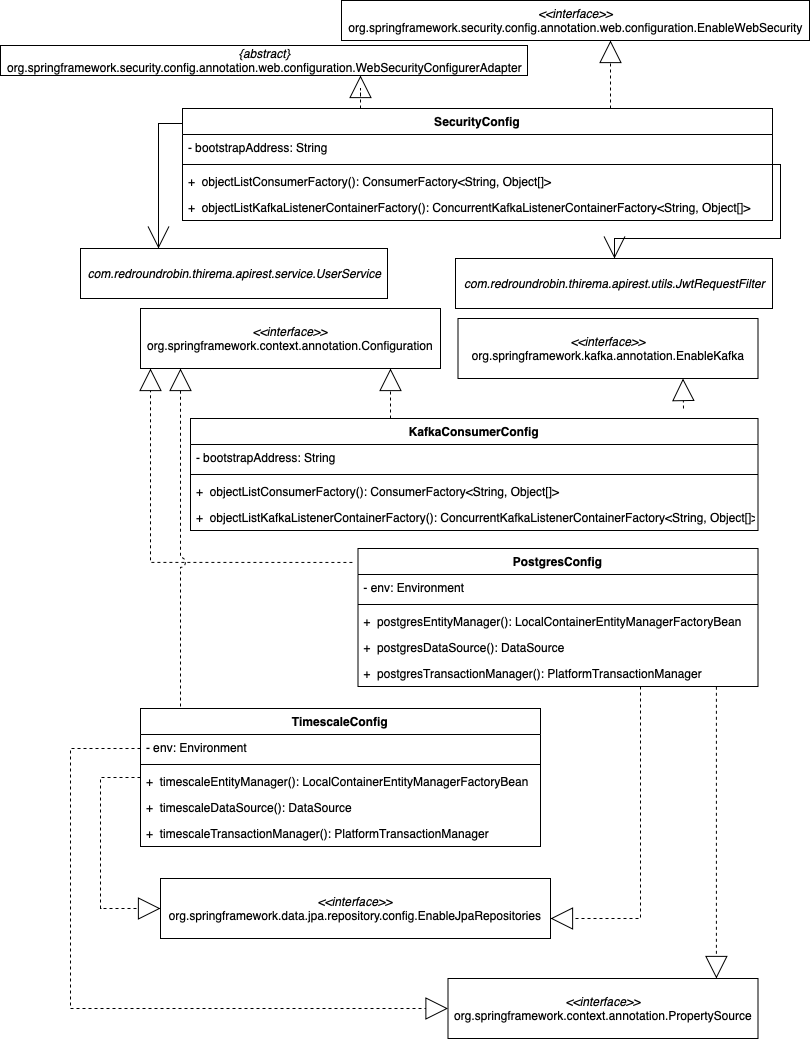
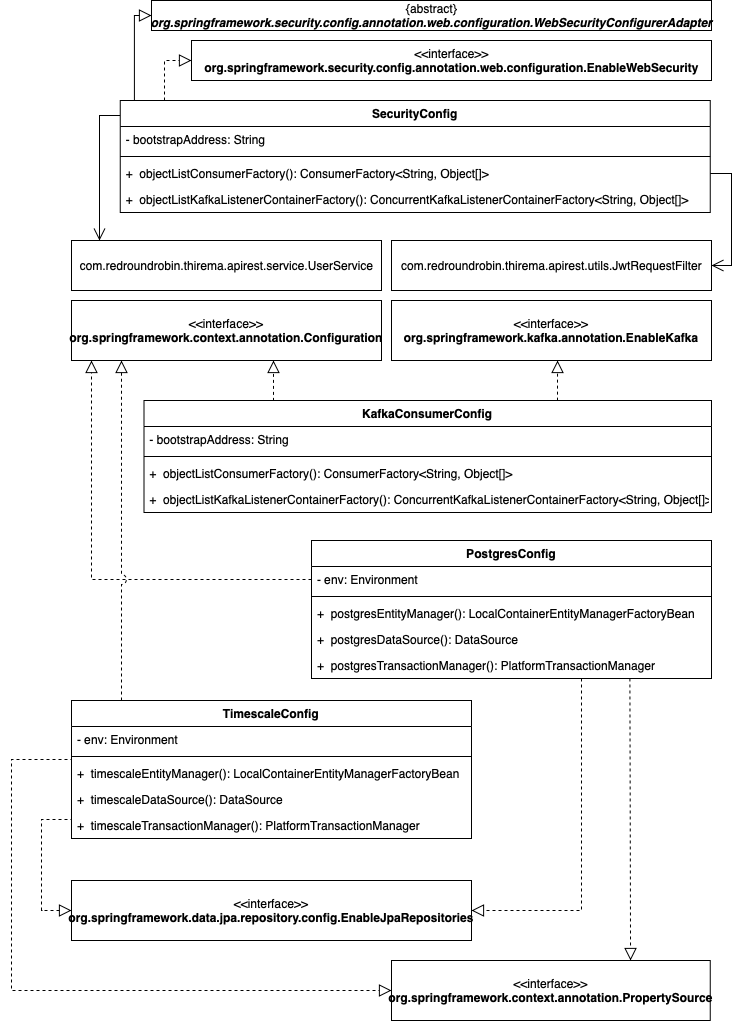
Aggiunti diagrammi classi e package

diff --git a/esterni/allegato_tecnico/res/sections/gateway.tex b/esterni/allegato_tecnico/res/sections/gateway.tex
@@ -1,26 +1,39 @@
 \subsection{Gateway}
-Un \textit{gateway} è una componente localizzata all'interno di un'azienda e permette di rendere uniforme l'interfaccia di accesso ai dati dei dispositivi configurati all'interno del gateway stesso.
-Dei gateway è possibile inoltre configurare funzioni di accumulo dei pacchetti contenenti i dati dei sensori o di impostare alcuni timer al termine dei quali effettuare l'invio dei dati all'interno dei rispettivi topic di Kafka tramite un producer;
-Tutte le configurazioni vengono ricevute da topic di Kafka adibiti esclusivamente a questa funzione.
-			\begin{landscape}
-			\subsubsection{Diagramma delle classi}
-		  	\begin{figure}[H]
-				\centering
-				\includegraphics[scale=0.500]{res/images/GATEWAY/ClassiGateway.png}
-				\caption{Diagramma delle classi per la componente gateway}
-			\end{figure}	
-			\end{landscape}
-			\begin{landscape}
-			\subsubsection{Diagramma di sequenza}
-		  	\begin{figure}[H]
-				\centering
-				\includegraphics[scale=0.500]{res/images/GATEWAY/RichiestaInvioGateway.png}
-				\caption{Diagramma di sequenza che rappresenta la richiesta di un dato e il conseguente invio del messaggio a un topic di Kafka}
-			\end{figure}
-			
-			Nel diagramma precedente sono stati mezionati in minima parte sia il simulatore dispositivi per una questione di continuità che il consumer per mostrare nella sua interezza ciò che avviene all'interno del gateway.
+	Un \textit{gateway} è una componente localizzata all'interno di un'azienda e permette di rendere uniforme l'interfaccia di accesso ai dati dei dispositivi configurati all'interno del gateway stesso.
+	Dei gateway è possibile inoltre configurare funzioni di accumulo dei pacchetti contenenti i dati dei sensori o di impostare alcuni timer al termine dei quali effettuare l'invio dei dati all'interno dei rispettivi topic di Kafka tramite un producer;
+	Tutte le configurazioni vengono ricevute da topic di Kafka adibiti esclusivamente a questa funzione.
+	
+	\subsubsection{Diagramma dei package}%%%%%%%%%%%%OK
+	  	\begin{figure}[H]
+			\centering
+			\includegraphics[scale=0.550]{res/images/GATEWAY/GatewayPackage.png}
+			\caption{Diagramma delle classi per la componente gateway}
+		\end{figure}		
 
-			\end{landscape}
+		\begin{landscape}
+	\subsubsection{Diagramma delle classi}%%%%%%%%%%%%%%%%%%%%%%%OK
+	  	\begin{figure}[H]
+			\centering
+			\includegraphics[scale=0.500]{res/images/GATEWAY/ClassiGateway.png}
+			\caption{Diagramma delle classi per la componente gateway}
+		\end{figure}	
+		\end{landscape}
+		\begin{landscape}
+	\subsubsection{Diagramma di sequenza}
+	  	\begin{figure}[H]
+			\centering
+			\includegraphics[scale=0.500]{res/images/GATEWAY/RichiestaInvioGateway.png}
+			\caption{Diagramma di sequenza che rappresenta la richiesta di un dato e il conseguente invio del messaggio a un topic di Kafka}
+		\end{figure}
+		
+		Nel diagramma precedente sono stati mezionati in minima parte sia il simulatore dispositivi per una questione di continuità che il consumer per mostrare nella sua interezza ciò che avviene all'interno del gateway.
+		\end{landscape}
+	\subsubsection{Diagramma di attività}
+		\begin{figure}[H]
+			\centering
+			\includegraphics[scale=0.500]{res/images/GATEWAY/gateway.start().png}
+			\caption{Diagramma di attività che rappresenta un'iterazione all'interno del metodo start() della classe Gateway}
+		\end{figure}
 
 
 

diff --git a/esterni/allegato_tecnico/res/sections/architettura.tex b/esterni/allegato_tecnico/res/sections/architettura.tex
@@ -2,11 +2,14 @@
 	\subsection{Descrizione generale}
 		L'architettura generale scelta per il prodotto è l'\textit{event-driven microservice}. 
 		L'architettura è formata da più componenti che dialogano con un broker di Kafka, mentre effettuano la persistenza dei dati in un database di tipo timeseries. Il tutto è gestito da una web-app e da delle api REST, grazie alle quali vengono propagati i comandi dell'applicazione web.
+		Più precisamente il/i \textit{gateway} comunica/comunicano tramite un/dei topic di Kafka; i dati vengono poi estratti dal \textit{data collector} che li inserisce nel database Timescale, mentre effettua anche un controllo dei dati inserendo i messaggi di alert in un apposito topic di Kafka. La componente \textit{api} invece riceve da Kafka gli alert e notifica gli utenti tramite un \textit{bot Telegram} previa registrazione nella \textit{web-app}. Proprio in quest'ultima vengono visualizzati i dati reperiti tramite le \textit{api} ed eventualmente modificate le impostazioni di utenti, enti o gateway.
 
 		Questo tipo di architettura è stato scelto perchè:
 		\begin{itemize}
 		 	\item \textbf{Richiesto dal capitolato}: il capitolato C6 richiede un'architettura in cui uno o più gateway inviano dati in uno o più topic di Kafka dal quale vengono presi ed inseriti in un database. Questi dati devono poi essere mostrati in una web-app tramite l'uso di api;
-		 	\item \textbf{Alta scalabilità}: Questo tipo di architettura permette di duplicare alcuni nodi nel caso in cui questi dovessero risultare dei colli di bottiglia, permettendo quindi evitare i problemi di scalabilità che si potrebbero avere utilizzando un tipo di architettura layered per la totalità del prodotto.
+		 	\item \textbf{Alta scalabilità}: questo tipo di architettura permette di duplicare alcuni nodi nel caso in cui questi dovessero risultare dei colli di bottiglia, permettendo quindi evitare i problemi di scalabilità che si potrebbero avere utilizzando un tipo di architettura layered per la totalità del prodotto;
+		 	\item \textbf{Semplicità}: poiché ThiReMa è composto da varie componenti con compiti piuttosto limitati, lo sviluppo delle varie parti separate tra loro semplifica di molto la complessità nello sviluppo del progetto;
+		 	\item \textbf{Facilità nel rilascio}: infine essendo una architettura composta da parti interdipendenti è possibile effettuare il deploy delle varie componenti in host differenti, senza contare che nel caso fosse necessaria la manutenzione di una singola componente non è necessario fermare l'intera architettura.
 		\end{itemize}
 
 		Le principali componenti del sistema sono:
@@ -20,15 +23,10 @@
 		  	\item \textbf{web-app}.    
 		\end{itemize} 
 
-		\subsection{Diagramma dei package generale}
 
-		Nel diagramma sottostante sono prensenti le dipendenze tra i vari package in cui sono suddivise le componenti del sistema.
 
-		  %	\begin{figure}[H]
-			%	\centering
-			%	\includegraphics[scale=0.675]{res/images/}
-			%	\caption{Diagramma dei package che rappresenta l'architettura nella sua totalità}
-			%\end{figure}
+			
+
 
 
 

diff --git a/esterni/allegato_tecnico/res/sections/api.tex b/esterni/allegato_tecnico/res/sections/api.tex
@@ -1,27 +1,31 @@
 \subsection{Api}
 	La componente \textit{Api} permette all'applicazione web di interfacciarsi con due differenti database: un database relazionale (PostgrSql) al cui interno sono contenute ad esempio le informazioni riguardanti gli utenti, gli enti e le configurazioni dei gateway, mentre nel database timeseries (Timescale) sono contenuti i dati dei sensori ricevuti dai gateway.
 	Infine tramite le api, la web-app può interfacciarsi con un bot Telegram ed inviare vari tipi di notifiche;
-	\subsubsection{Diagramma dei package}
-		Data la numerosità delle classi all'interno della componente Api del progetto ThiReMa si è deciso di inserire il diagramma dei package per chiarificare le relazioni tra le classi che verranno poi illustrate in seguito.
+	\subsubsection{Diagramma dei package}%%%%%%%%%%%%%%OK
 		\begin{figure}[H]
 			\centering
-			\includegraphics[scale=0.600]{res/images/API/packageAPI.png}
+			\includegraphics[scale=0.500]{res/images/API/packageAPI.png}
 			\caption{Diagramma dei packages per la componente Api}
 		\end{figure}
 
-	\subsubsection{Diagrammi delle classi}
-		Al fine di semplificare la comprensione delle dipendenze della componente Api, si è deciso di suddividere i diagrammi per package, mostrando solo quelli più significativi.
+	\subsubsection{Diagrammi delle classi}%%%%%%%%%%%%%%%%%%%%%%%%%%%%%%%%%OK
+		Al fine di semplificare la comprensione delle dipendenze della componente Api, si è deciso di suddividere i diagrammi per package, mostrando in dettaglio quelli più significativi.
 
-		%No models b0ss
+		
 		\begin{figure}[H]
 			\centering
-			\includegraphics[scale=0.500]{res/images/API/UtilsPackage.png}
+			\includegraphics[scale=0.550]{res/images/API/UtilsPackage.png}
 			\caption{Diagramma del package Utils della componente Api}
 		\end{figure}
 		\begin{figure}[H]
 			\centering
 			\includegraphics[scale=0.550]{res/images/API/ConfigPackage.png}
 			\caption{Diagramma del package Config della componente Api}
+		\end{figure}
+		\begin{figure}[H]
+			\centering
+			\includegraphics[scale=0.300]{res/images/API/Controllers.png}
+			\caption{Diagramma del package Controllers della componente Api}
 		\end{figure}
 		\begin{landscape}
 		\begin{figure}[H]
@@ -34,8 +38,17 @@
 			\includegraphics[scale=0.300]{res/images/API/ServicePackage.png}
 			\caption{Diagramma del package Service della componente Api}
 		\end{figure}
-		\end{landscape}
-		%%%%%%%%%%%%%%%%%%%%%%%%%%%%%Manca controllers%%%%%%%%%%%%%%%%%%%%%%
+		
 	\subsubsection{Diagrammi di sequenza}
-	\subsubsection{Diagrammi di attività}
+		\begin{figure}[H]
+			\centering
+			\includegraphics[scale=0.550]{res/images/API/inserimento_utente.png}
+			\caption{Diagramma di sequenza che mostra l'inserimento di un utente all'interno della componente Api}
+		\end{figure}
+		\begin{figure}[H]
+			\centering
+			\includegraphics[scale=0.550]{res/images/API/inserimento_view.png}
+			\caption{Diagramma di sequenza che mostra l'inserimento di una view all'interno della componente Api}
+		\end{figure}
+	\end{landscape}
 

diff --git a/esterni/allegato_tecnico/res/sections/databaseAdapter.tex b/esterni/allegato_tecnico/res/sections/databaseAdapter.tex
@@ -1,13 +1,30 @@
 \subsection{Data Collector}
 La componente \textit{data collector} permette di reperire i dati prodotti dai gateway che sono presenti all'interno dei vari topic di Kafka all'interno di un database di tipo timeseries. Allo stesso tempo permette di filtrare i messaggi che sono stati collezionati e inviare di conseguenza dei messaggi di avviso all'interno di un apposito topic.
 Il filtraggio dei dati viene fatto degli alert impostati all'interno della web-app e salvati all'interno di un database relazionale (PostgreSql);
-\begin{landscape}
-	\subsubsection{Diagramma delle classi}
+	\subsubsection{Diagramma dei package}%%%%%%%%%OK
+	\begin{figure}[H]
+			\centering
+			\includegraphics[scale=0.500]{res/images/DATACOLLECTOR/Packagekafkadatacollector.png}
+			\caption{Diagramma dei package della componente Data Collector}
+		\end{figure}
+	\begin{landscape}
+	\subsubsection{Diagramma delle classi}%%%%%%%%%%%%%%%%%%%%%%%OK
 		\begin{figure}[H]
 			\centering
-			\includegraphics[scale=0.500]{res/images/DATACOLLECTOR/ClassikafkaDataCollector.png}
+			\includegraphics[scale=0.550]{res/images/DATACOLLECTOR/ClassikafkaDataCollector.png}
 			\caption{Diagramma delle classi della componente Data Collector}
 		\end{figure}
-\end{landscape}
-\subsubsection{Diagrammi di sequenza}
-\subsubsection{Diagrammi di attività}
+	\end{landscape}
+	\begin{landscape}
+	\subsubsection{Diagrammi di sequenza}
+		\begin{figure}[H]
+			\centering
+			\includegraphics[scale=0.550]{res/images/DATACOLLECTOR/DataFilter.ThreadsKafkaDataCollector.png}
+			\caption{Diagramma di sequenza in cui viene mostrato il funzionamento del filtraggio dati nella componente Data Collector}
+		\end{figure}
+		\begin{figure}[H]
+			\centering
+			\includegraphics[scale=0.550]{res/images/DATACOLLECTOR/DataInserter.ThreadsKafkaDataCollector.png}
+			\caption{Diagramma di sequenza in cui viene mostrato il funzionamento dell'inserimento dati nella componente Data Collector}
+		\end{figure}
+	\end{landscape}

diff --git a/esterni/allegato_tecnico/res/sections/webApp.tex b/esterni/allegato_tecnico/res/sections/webApp.tex
@@ -1,19 +1,31 @@
 \subsection{Applicazione web}
 La componente \textit{web-app} ha il compito di interfacciare gli utenti con i dispositivi visibili al loro ente di appartenenza, permettendo di visualizzare grafici contenenti i dati di determinati sensori o di modificare le configurazioni dei gateway stessi, aggiungendo o rimuovendo dispositivi e/o sensori. 
 
-	\subsubsection{Diagrammi delle classi}
-	Per semplificare il diagramma complessivo dell'applicazione web, le componenti model e controller sono state suddivise in due diagrammi separati.
-	\begin{landscape}
+	\subsubsection{Diagramma dei package}%%%%%%%%%OK
 		\begin{figure}[H]
 			\centering
-			\includegraphics[scale=0.600]{res/images/WEBAPP/ModelWebApp.png}
-			\caption{Diagramma delle classi del model della componente web-app}
+			\includegraphics[scale=0.600]{res/images/WEBAPP/WebAppPackage.png}
+			\caption{Diagramma dei package della componente web-app}
 		\end{figure}
+
+	\subsubsection{Diagrammi delle classi}%%%%%%%%%%OK
+		\begin{landscape}
 		\begin{figure}[H]
 			\centering
-			\includegraphics[scale=0.300]{res/images/WEBAPP/ControllerWebApp.png}
-			\caption{Diagramma delle classi del controller della componente web-app}
+			\includegraphics[scale=0.350]{res/images/WEBAPP/ClassiWebApp.png}
+			\caption{Diagramma delle classi della componente web-app}
 		\end{figure}
 		\end{landscape}
+	\begin{landscape}
 	\subsubsection{Diagrammi di sequenza}
-	\subsubsection{Diagrammi di attività}
+		\begin{figure}[H]
+			\centering
+			\includegraphics[scale=0.500]{res/images/WEBAPP/AutenticazioneTfa.png}
+			\caption{Diagramma di sequenza che illustra l'autenticazione a due fattori all'interno della componente web-app}
+		\end{figure}
+		\begin{figure}[H]
+			\centering
+			\includegraphics[scale=0.600]{res/images/WEBAPP/Dashboard.index.png}
+			\caption{Diagramma di sequenza che illustra la visualizzazione della schermata Dashboard all'interno della componente web-app}
+		\end{figure}
+	\end{landscape}

diff --git a/esterni/allegato_tecnico/res/sections/botTelegram.tex b/esterni/allegato_tecnico/res/sections/botTelegram.tex
@@ -1,4 +1,14 @@
 \subsection{Bot Telegram}
 	La componente \textit{bot Telegram} permette di ricevere codici di autenticazione a due fattori, notifiche di alert o inviare direttamente dal bot dei comandi per alterare lo stato di alcuni dispositivi. 
-\subsubsection{Diagramma delle classi}
+\subsubsection{Diagramma delle classi}%%%%%%%%%%%%%%%%%OK
+	\begin{figure}[H]
+		\centering
+		\includegraphics[scale=0.600]{res/images/BOTTELEGRAM/ClassiTelegram.png}
+		\caption{Diagramma delle classi della componente bot Telegram}
+	\end{figure}
 \subsubsection{Diagramma di sequenza}
+	\begin{figure}[H]
+		\centering
+		\includegraphics[scale=0.600]{res/images/BOTTELEGRAM/TelegramRichiestaPOST.png}
+		\caption{Diagramma di sequenza che riporta la ricezione di una richiesta POST delle api all'interno della componente bot Telegram}
+	\end{figure}

diff --git a/esterni/allegato_tecnico/main.tex b/esterni/allegato_tecnico/main.tex
@@ -1,6 +1,6 @@
 %!TEX output_directory = .cache
 % ---------------------------
-%	  [ Manuale Utente ]
+%	  [ Allegato Tecnico ]
 %	----------------------
 %	    Red Round Robin
 %  Progetto di SWE (2019-20)
@@ -74,13 +74,6 @@
 \pagenumbering{gobble}
 \DeactivateBG
 \input{res/frontespizio}
-
-% Registro delle modifiche
-
-\newpage
-\ActivateBG
-\pagenumbering{arabic}
-\input{res/registro}
 
 % Tabella dei contenuti
 
